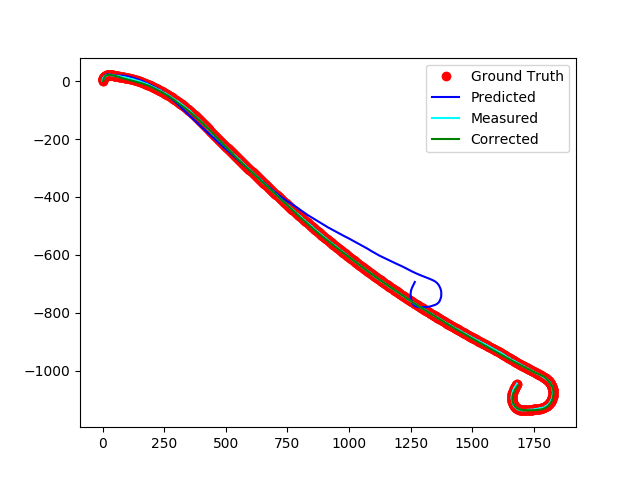
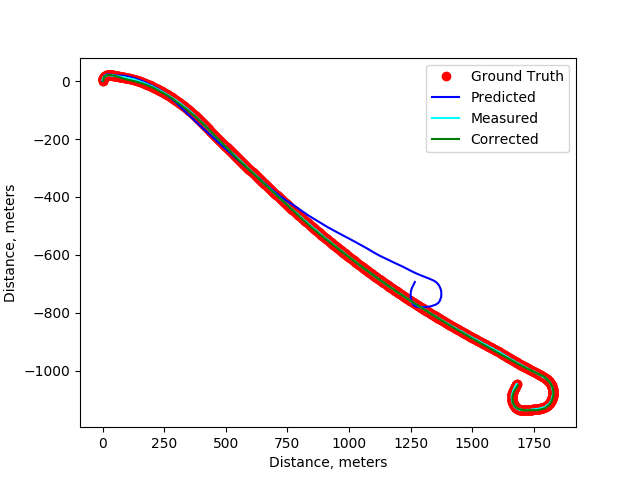
asdf

Changed region(s): [[0.0, 0.375, 0.0312, 0.625], [0.4062, 0.9375, 0.5938, 0.9688], [0.8125, 0.8438, 0.8438, 0.875]]

diff --git a/main_corr.py b/main_corr.py
@@ -4,7 +4,6 @@ import numpy as np
 from Model_PosQ import *
 import sys
 
-
 def getSeqInput(x,y, T):
     input = None
     offset = T-1
@@ -62,6 +61,8 @@ def test_quick():
         meas, = plt.plot(measPos[:,0], measPos[:,2], 'cyan')
         corr, = plt.plot(finalPos[:,3], finalPos[:,5], 'g')
         plt.legend([gt, pr, meas, corr], ['Ground Truth', 'Predicted', 'Measured', 'Corrected'])
+        plt.xlabel('Distance, meters')
+        plt.ylabel('Distance, meters')
         plt.show()
 
 
@@ -98,8 +99,12 @@ def test_real():
         meas, = plt.plot(measPos[:,0], measPos[:,2], 'cyan')
         corr, = plt.plot(finalPos[:,3], finalPos[:,5], 'g')
         plt.legend([gt, pr, meas, corr], ['Ground Truth', 'Predicted', 'Measured', 'Corrected'])
+        plt.xlabel('Distance, meters')
+        plt.ylabel('Distance, meters')
         plt.savefig('Results/Images/seq_corr' + str(seq))
-        #np.savetxt('data/seq_constQ' + str(seq) + '.txt', finalPos)
+
+        np.savetxt('Results/corr_data/seq_measPos' + str(seq) + '.txt', measPos)
+        np.savetxt('Results/corr_data/seq_corrPos' + str(seq) + '.txt', finalPos)
         #plt.show()
 
 
